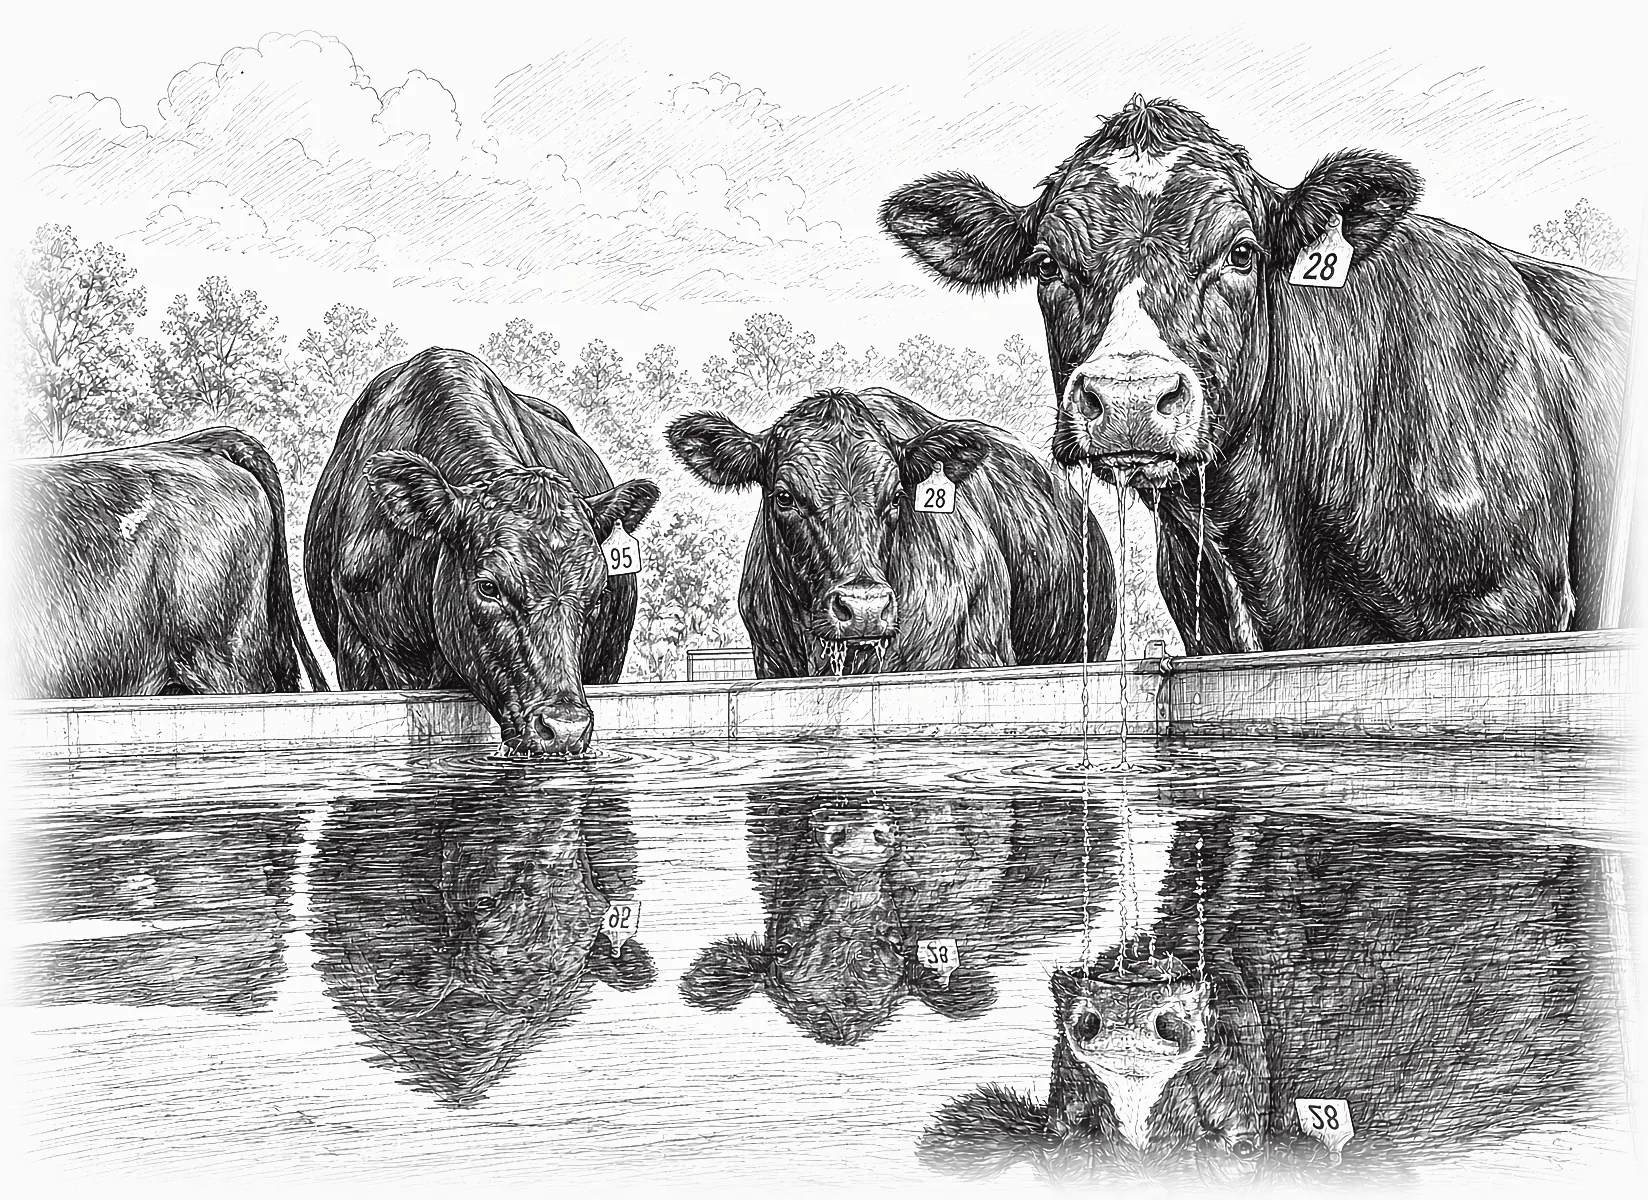
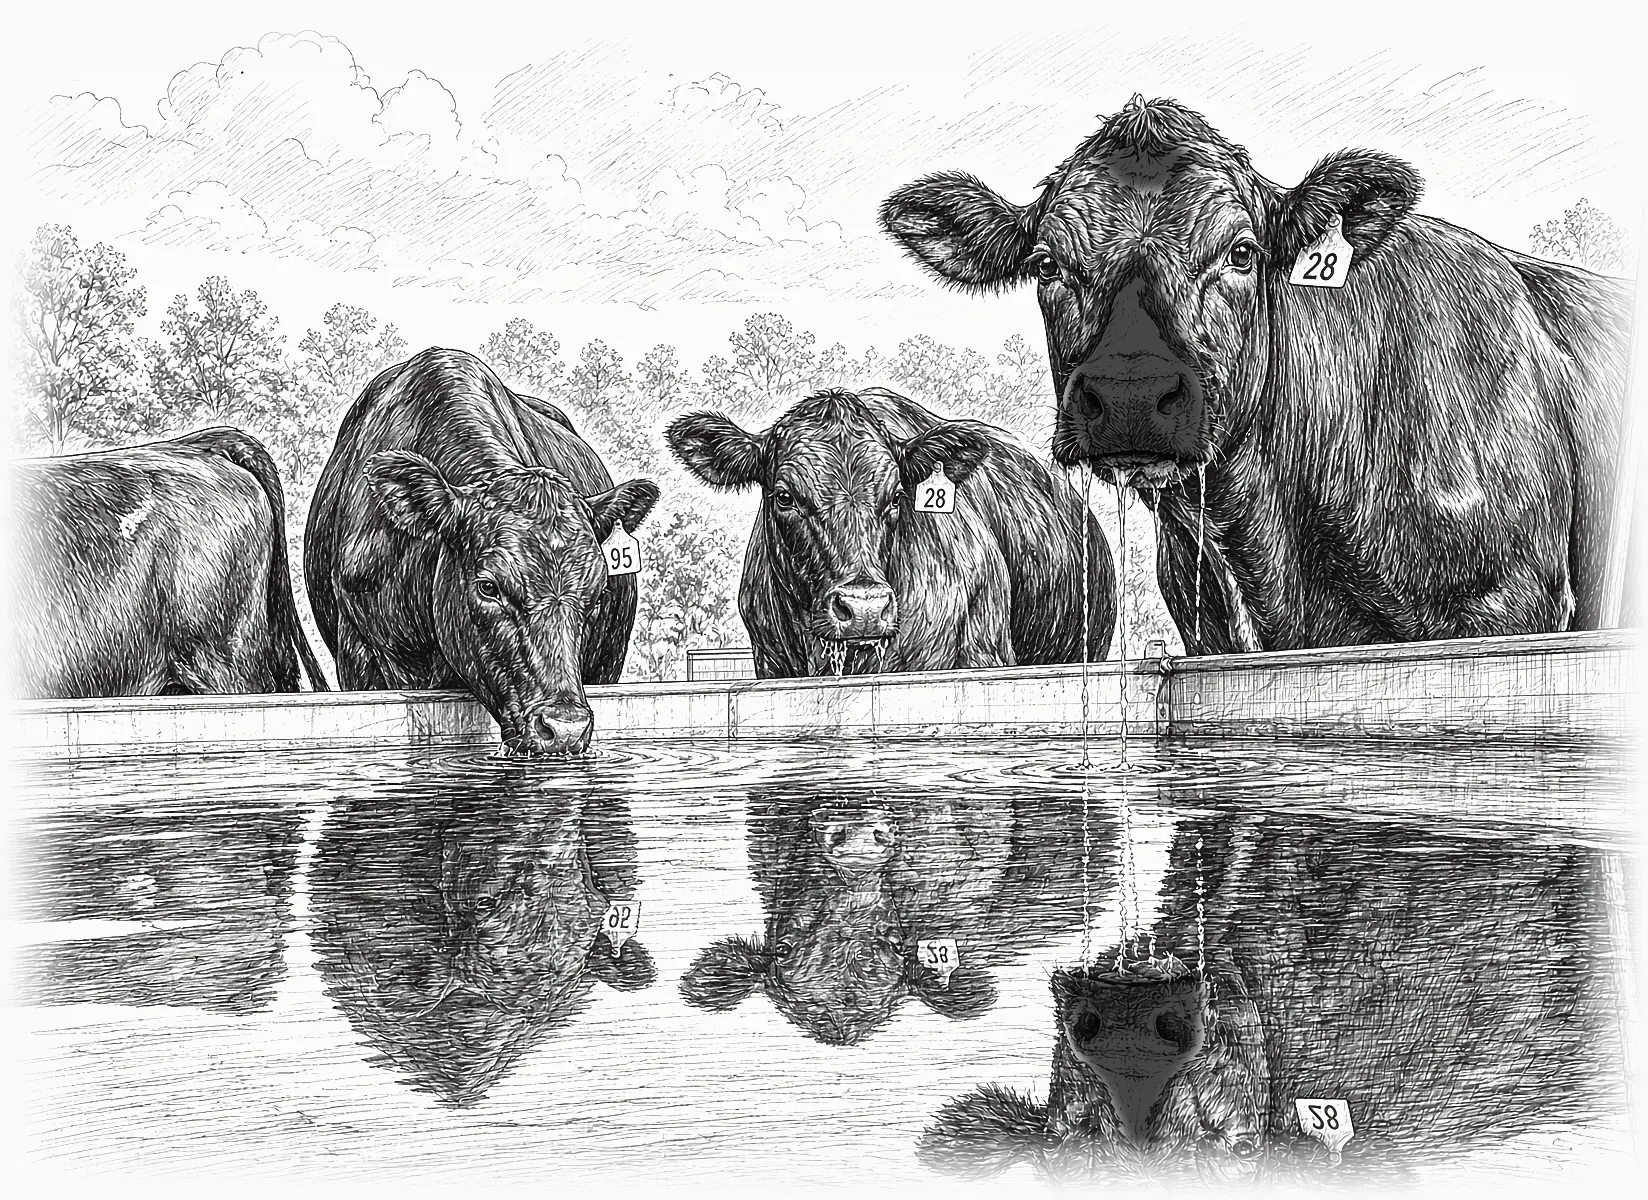
Solid black face on tank cow; herd wording

Changed region(s): [[0.6189, 0.2158, 0.7427, 0.4008], [0.6499, 0.8017, 0.7427, 0.9558], [0.6499, 0.0925, 0.7427, 0.185]]

diff --git a/index.html b/index.html
@@ -47,7 +47,7 @@
   </figure>
   <div class="split">
     <div class="copy">
-      <p>We run a commercial Angus cow herd. We want cows that breed back, calve on their own and raise a good calf on grass. That's about all there is to it.</p>
+      <p>We run a commercial purebred Angus cow herd. We want cows that breed back, calve on their own and raise a good calf on grass. That's about all there is to it.</p>
       <p class="stencil">We sell bred heifers.</p>
       <p>Give Ryan a call to see what's available.</p>
     </div>
